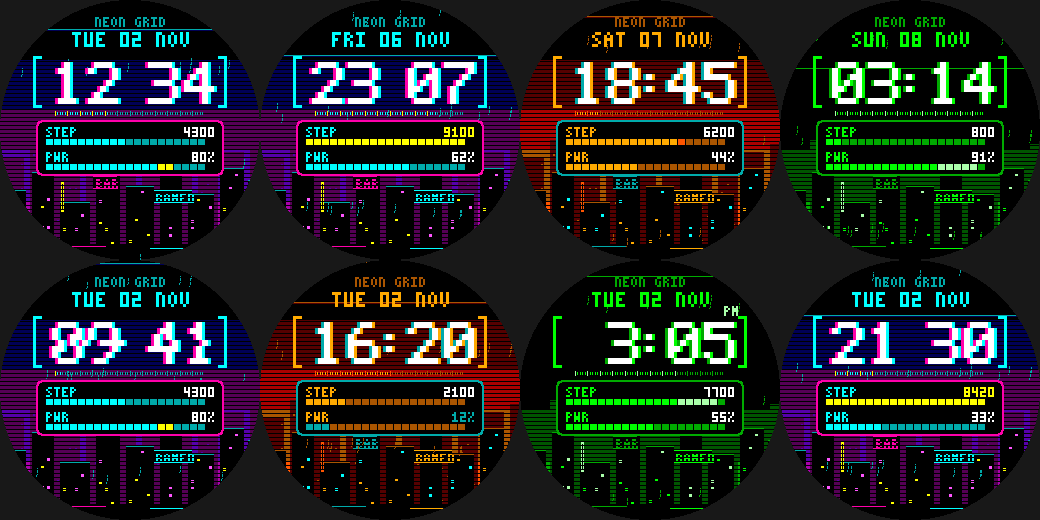
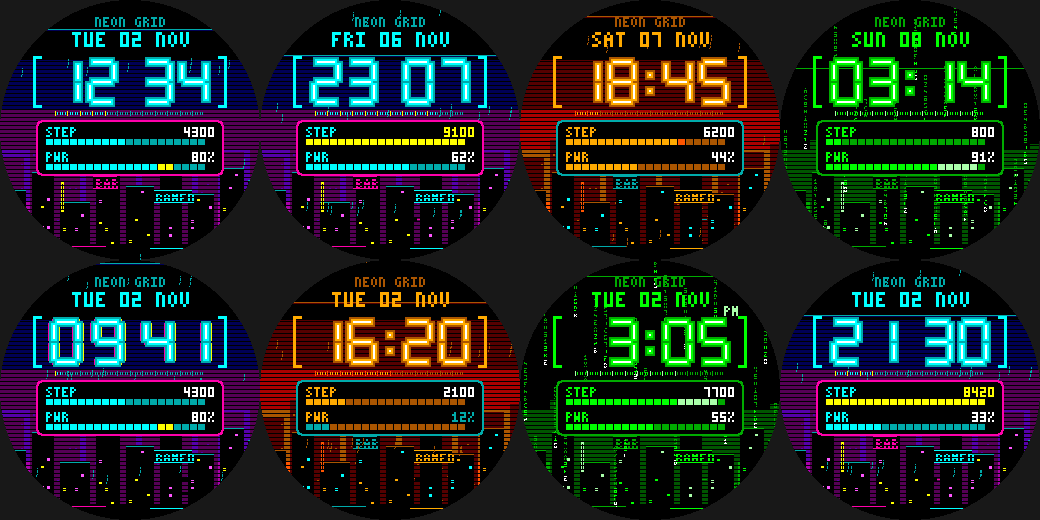
Neon Grid: neon-tube digits, hover cars, matrix code rain
Claude-Session: https://claude.ai/code/session_011ky8cAnUXaEurYwVogiPNe

diff --git a/neon-grid/src/c/main.c b/neon-grid/src/c/main.c
@@ -81,20 +81,6 @@ static uint32_t hash2(uint32_t a, uint32_t b) {
 }
 
 // ---------------------------------------------------------------- fonts
-// 5x7 digits for the big time.
-static const char *BIG[10][7] = {
-  {"01110", "10001", "10011", "10101", "11001", "10001", "01110"},
-  {"00100", "01100", "00100", "00100", "00100", "00100", "01110"},
-  {"01110", "10001", "00001", "00010", "00100", "01000", "11111"},
-  {"11110", "00001", "00001", "01110", "00001", "00001", "11110"},
-  {"00010", "00110", "01010", "10010", "11111", "00010", "00010"},
-  {"11111", "10000", "11110", "00001", "00001", "10001", "01110"},
-  {"00110", "01000", "10000", "11110", "10001", "10001", "01110"},
-  {"11111", "00001", "00010", "00100", "01000", "01000", "01000"},
-  {"01110", "10001", "10001", "01110", "10001", "10001", "01110"},
-  {"01110", "10001", "10001", "01111", "00001", "00010", "01100"},
-};
-
 // 3x5 micro font (15 bits, row-major) for labels.
 typedef struct { char ch; const char *bits; } Glyph;
 static const Glyph MICRO[] = {
@@ -174,6 +160,16 @@ static void draw_city(void) {
       }
     }
   }
+  // hover-cars slipping through the alleys (hidden when they pass behind a tower)
+  for (int i = 0; i < 3; i++) {
+    int x = (int)(((s_tick * (5 + 3 * (uint32_t)i)) + 97 * (uint32_t)i) % 300) - 24;
+    if (i == 1) x = 260 - x;                                    // this one flies the other way
+    int y = 204 + i * 14;
+    int dir = (i == 1) ? -1 : 1;
+    R(s_th.near_b, x, y, 10, 3);
+    R(s_th.acc, dir > 0 ? x + 10 : x - 2, y, 2, 1);               // headlight
+    R(s_th.sec, dir > 0 ? x - 6 : x + 10, y + 1, 6, 1);           // light trail
+  }
   // near skyline: darker, with brighter windows
   for (size_t i = 0; i < sizeof(NEAR_B) / sizeof(NEAR_B[0]); i++) {
     const Bldg *b = &NEAR_B[i];
@@ -219,6 +215,21 @@ static void draw_rain(void) {
   }
 }
 
+// MATRIX theme: falling columns of code instead of rain.
+static void draw_code_rain(void) {
+  static const char GLYPHS[] = "0123456789ABCDEFXZ";
+  for (int i = 0; i < 26; i++) {
+    int x = 4 + i * 10;
+    int head = (int)((hash2((uint32_t)i, 9) % 300 + s_tick * (7 + (uint32_t)(i % 5) * 2)) % 320) - 30;
+    for (int k = 0; k < 9; k++) {
+      int y = head - k * 7;
+      if (y < -6 || y > 258) continue;
+      char buf[2] = {GLYPHS[hash2((uint32_t)(i * 13 + k), s_tick / 2 + (uint32_t)k) % (sizeof(GLYPHS) - 1)], 0};
+      micro(buf, x, y, 1, k == 0 ? GColorWhite : (k < 3 ? s_th.pri : (k < 6 ? s_th.sec : s_th.rain)));
+    }
+  }
+}
+
 static void draw_scanlines(void) {
   for (int y = 1; y < 260; y += 4) R(s_th.sky[0], 0, y, 260, 1);
   int sweep = (int)((s_tick * 13) % 280) - 10;                  // slow scanning bar
@@ -227,24 +238,46 @@ static void draw_scanlines(void) {
 }
 
 // ---------------------------------------------------------------- time
+// Neon-tube digits: chamfered 7-segment shapes on a 7x11 cell grid, each segment
+// drawn as a dim glow halo, a coloured tube and a white-hot core.
 
 static bool glitching(void) {
   return (s_tick % 8) == 0 || s_glitch_until > s_tick;
 }
 
-static int row_shift(int row) {
-  if (!glitching()) return 0;
-  int band = (int)((s_tick * 3) % 7);
-  if (row == band) return (s_tick & 1) ? 6 : -6;               // one torn scanline row
-  return 0;
+static const uint8_t SEG[10] = {0x3F, 0x06, 0x5B, 0x4F, 0x66, 0x6D, 0x7D, 0x07, 0x7F, 0x6F};
+typedef struct { int8_t x, y, w, h; } SegRect;
+static const SegRect SEGR[7] = {      // a, b, c, d, e, f, g
+  {1, 0, 5, 1}, {6, 1, 1, 4}, {6, 6, 1, 4}, {1, 10, 5, 1},
+  {0, 6, 1, 4}, {0, 1, 1, 4}, {1, 5, 5, 1},
+};
+
+// pass 0 = glow halo, 1 = tube colour, 2 = white core
+static void seg_pass(int d, int x, int y, int sc, int pass, GColor tube) {
+  for (int i = 0; i < 7; i++) {
+    if (!(SEG[d] & (1 << i))) continue;
+    int rx = x + SEGR[i].x * sc, ry = y + SEGR[i].y * sc;
+    int rw = SEGR[i].w * sc, rh = SEGR[i].h * sc;
+    bool horiz = SEGR[i].w > SEGR[i].h;
+    if (pass == 0) R(s_th.rain, rx - 3, ry - 3, rw + 6, rh + 6);
+    else if (pass == 1) R(tube, rx - 1, ry - 1, rw + 2, rh + 2);
+    else if (horiz) R(GColorWhite, rx + 1, ry + 1, rw - 2, rh - 2);
+    else R(GColorWhite, rx + 1, ry + 1, rw - 2, rh - 2);
+  }
 }
 
-static void big_digit(int d, int x, int y, int sc, GColor c) {
-  for (int r = 0; r < 7; r++) {
-    int off = row_shift(r);
-    for (int k = 0; k < 5; k++) {
-      if (BIG[d][r][k] == '1') R(c, x + k * sc + off, y + r * sc, sc, sc);
-    }
+static void tube_digit(int d, int x, int y, int sc, bool glow) {
+  if (glow) seg_pass(d, x, y, sc, 0, s_th.pri);
+  seg_pass(d, x, y, sc, 1, s_th.pri);
+  seg_pass(d, x, y, sc, 2, s_th.pri);
+}
+
+static void tube_colon(int cx, int y, bool glow) {
+  for (int k = 0; k < 2; k++) {
+    int yy = y + (k ? 28 : 12);
+    if (glow) R(s_th.rain, cx - 5, yy - 2, 10, 10);
+    R(s_th.pri, cx - 3, yy, 6, 6);
+    R(GColorWhite, cx - 1, yy + 2, 2, 2);
   }
 }
 
@@ -256,20 +289,25 @@ static void draw_time(void) {
   }
   int dg[4] = {hour / 10, hour % 10, s_min / 10, s_min % 10};
   if (!s_24h && dg[0] == 0) dg[0] = -1;                         // no leading zero in 12h mode
-  const int sc = 6, ty = 62;
-  const int xs[4] = {52, 88, 148, 184};                         // digit, digit, [colon], digit, digit
-  // chromatic-aberration ghosts first, then the white core on top
-  for (int layer = 0; layer < 3; layer++) {
-    GColor c = layer == 0 ? s_th.sec : (layer == 1 ? s_th.pri : GColorWhite);
-    int dx = layer == 0 ? -3 : (layer == 1 ? 3 : 0);
+  const int sc = 4, ty = 60;
+  const int xs[4] = {52, 88, 144, 180};
+  bool gl = glitching();
+  int torn = gl ? (int)(s_tick % 4) : -1;                       // which digit slips sideways
+  // chromatic-aberration ghosts while glitching
+  if (gl) {
     for (int i = 0; i < 4; i++) {
-      if (dg[i] >= 0) big_digit(dg[i], xs[i] + dx, ty, sc, c);
-    }
-    if (!(s_tick & 1) || !s_in_focus) {                         // blinking colon
-      R(c, 126 + dx, ty + 2 * sc, sc, sc);
-      R(c, 126 + dx, ty + 4 * sc, sc, sc);
+      if (dg[i] < 0) continue;
+      int off = (i == torn) ? ((s_tick & 1) ? 6 : -6) : 0;
+      seg_pass(dg[i], xs[i] + off - 3, ty, sc, 1, s_th.sec);
+      seg_pass(dg[i], xs[i] + off + 3, ty, sc, 1, s_th.acc);
     }
   }
+  for (int i = 0; i < 4; i++) {
+    if (dg[i] < 0) continue;
+    int off = (gl && i == torn) ? ((s_tick & 1) ? 6 : -6) : 0;
+    tube_digit(dg[i], xs[i] + off, ty, sc, true);
+  }
+  if (!(s_tick & 1) || !s_in_focus) tube_colon(130, ty, true);   // blinking colon
   // HUD brackets around the time
   R(s_th.pri, 33, 56, 3, 52);  R(s_th.pri, 33, 56, 9, 3);  R(s_th.pri, 33, 105, 9, 3);
   R(s_th.pri, 224, 56, 3, 52); R(s_th.pri, 218, 56, 9, 3); R(s_th.pri, 218, 105, 9, 3);
@@ -323,7 +361,7 @@ static void canvas_update(Layer *layer, GContext *ctx) {
   g = ctx;
   R(s_th.sky[0], 0, 0, 260, 260);
   draw_city();
-  draw_rain();
+  if (s_theme == 2) draw_code_rain(); else draw_rain();
   draw_scanlines();
   draw_time();
   draw_hud();

diff --git a/neon-grid/tools/preview/render.c b/neon-grid/tools/preview/render.c
@@ -62,7 +62,7 @@ int main(int argc, char **argv) {
   if (argc < 13) return 1;
   s_hour = atoi(argv[1]); s_min = atoi(argv[2]); s_sec = atoi(argv[3]); s_wday = atoi(argv[4]);
   s_mday = atoi(argv[5]); s_mon = atoi(argv[6]); s_steps = atoi(argv[7]); s_batt = atoi(argv[8]);
-  s_tick = (uint32_t)atoi(argv[9]); load_theme(atoi(argv[10]));
+  s_tick = (uint32_t)atoi(argv[9]); s_theme = atoi(argv[10]); load_theme(s_theme);
   s_glitch_until = s_tick + (uint32_t)atoi(argv[11]);
   s_24h = atoi(argv[12]) != 0;
   canvas_update(NULL, NULL);

diff --git a/neon-grid/README.md b/neon-grid/README.md
@@ -4,10 +4,12 @@ A cyberpunk watchface for the Pebble Round 2 (`gabbro`, 260x260 round colour).
 
 ![preview](docs/preview.png)
 
-- **Big glitchy time** in a custom 5x7 pixel font, with chromatic-aberration ghosts, a blinking
-  colon, an occasional torn scanline and a short glitch burst at the top of every minute.
+- **Neon-tube time**: chamfered 7-segment digits drawn as a glow halo, a coloured tube and a white-hot
+  core, with a blinking colon. Every so often (and at the top of each minute) it glitches: RGB-split
+  ghosts and one digit slips sideways.
 - **Rain-soaked neon skyline** under a glowing horizon: flickering windows and billboards
-  (`BAR`, `RAMEN`, a hotel sign), falling rain and a slow scanning bar.
+  (`BAR`, `RAMEN`, a hotel sign), falling rain, hover-cars that slip between the towers and a slow scanning bar. The MATRIX theme
+  swaps the rain for falling columns of green code.
 - **HUD plate** with segmented bars for today's steps (goal 8,000; turns gold when reached) and
   battery (blinks when low), plus the date and a 60-tick seconds ruler.
 - **Three themes** - NEON (cyan/magenta), BLADE (amber/teal) and MATRIX (green). **Flick your wrist
@@ -33,5 +35,5 @@ Needs the `health` capability (declared in `package.json`) for the step bar.
 ## Status
 
 `pebble build` succeeds for `gabbro` (SDK 4.33.1, 6 KB RAM) and the drawing code passes an
-AddressSanitizer/UBSan sweep (2,500+ random states). It has **not** been run on the emulator or a
+AddressSanitizer/UBSan sweep (2,500+ random states, re-run after the neon-tube redesign). It has **not** been run on the emulator or a
 real watch.
